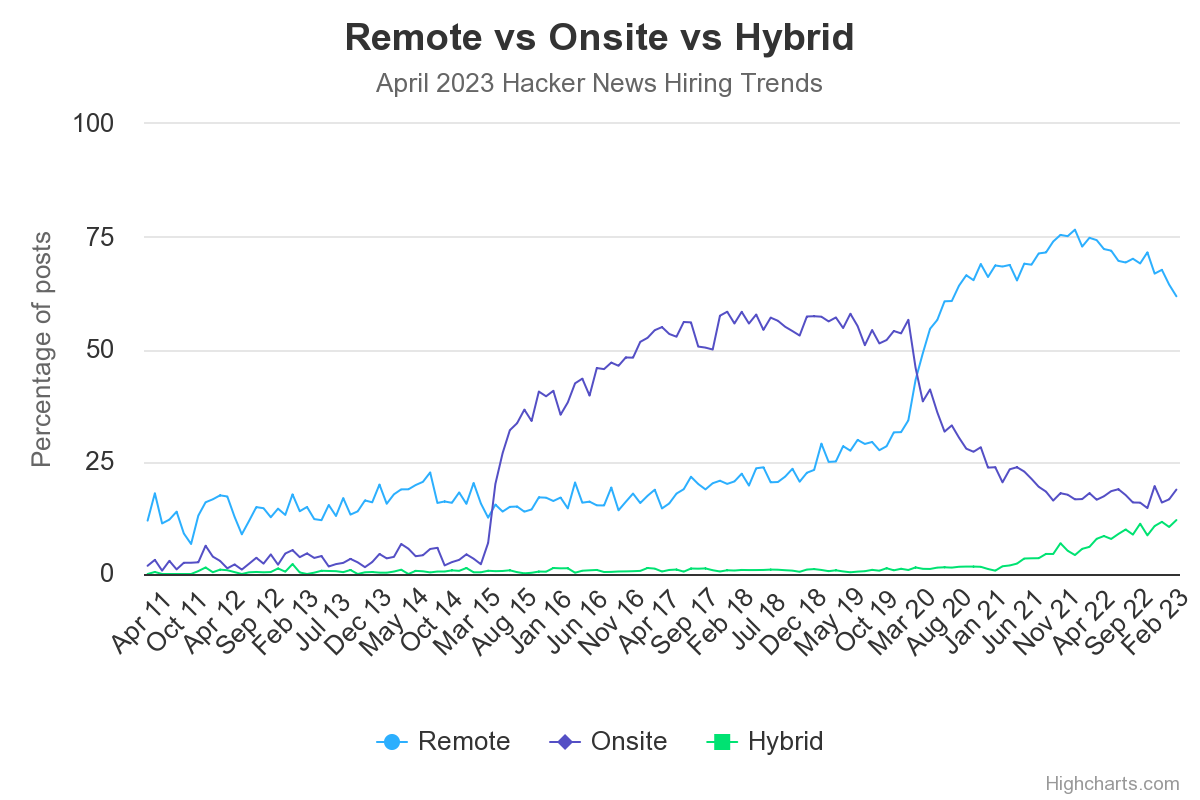
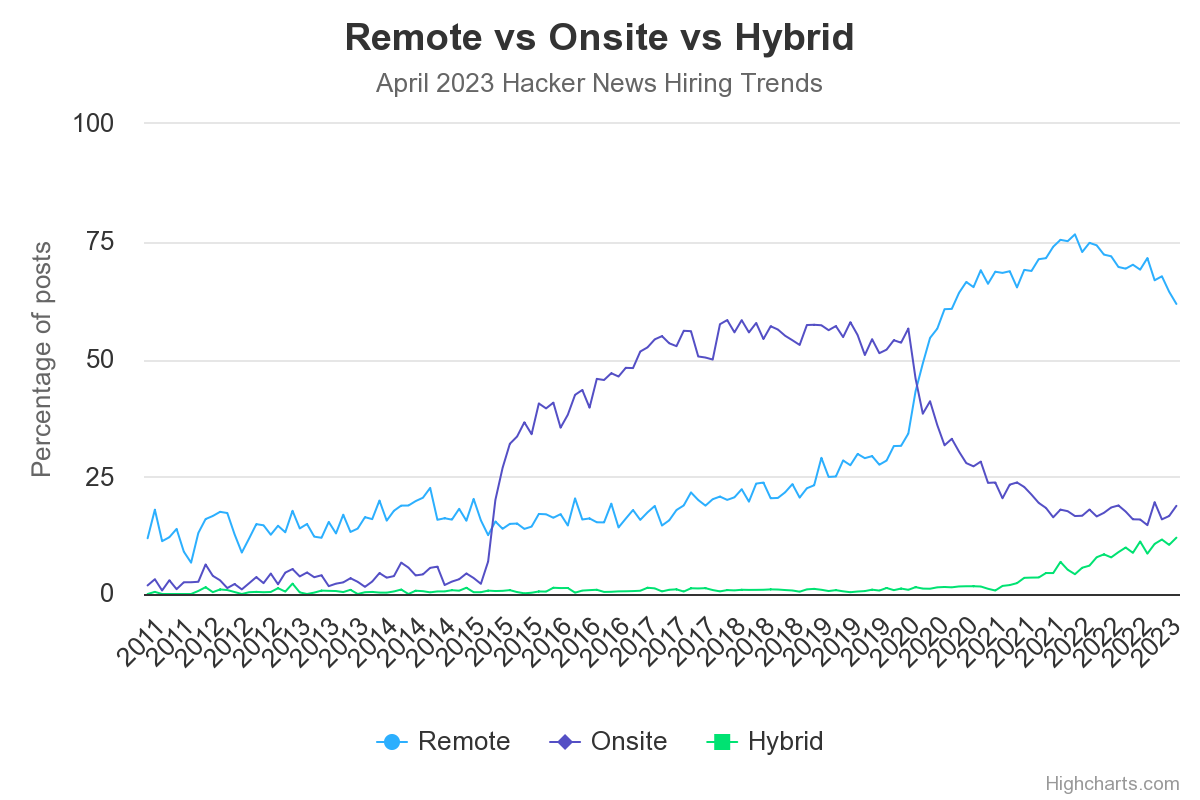
Fix year labels

Changed region(s): [[0.0925, 0.2812, 0.9867, 0.8438], [0.0308, 0.2812, 0.0925, 0.625], [0.0617, 0.7188, 0.0925, 0.75]]

diff --git a/web/js/builder-v18.js b/web/js/builder-v18.js
@@ -93,7 +93,7 @@ const chartBuilder = (function () {
         type: 'line'
       },
       title: {
-        text: ''
+        text: 'Remote vs Onsite vs Hybrid'
       },
       subtitle: {
         text: 'April 2023 Hacker News Hiring Trends'
@@ -106,7 +106,7 @@ const chartBuilder = (function () {
           step: 4,
           rotation: [-45],
           formatter: function() {
-            return Highcharts.dateFormat('%b %y', this.value);
+            return Highcharts.dateFormat('%Y', this.value);
           }
         }
       },
@@ -201,7 +201,10 @@ window.addEventListener('DOMContentLoaded', (event) => {
     title: {
       text: 'Ask HN: Who is hiring? Total Job Postings'
     },
-    yAxis: {
+    subtitle: {
+      text: 'April 2023'
+    },
+  yAxis: {
       title: {
         text: 'Number of Job Postings'
       },
@@ -210,11 +213,14 @@ window.addEventListener('DOMContentLoaded', (event) => {
     xAxis: {
       type: 'datetime',
       categories: categories,
+      dateTimeLabelFormats: {
+        month: '%b %y'
+      },
       labels: {
         rotation: [-45],
-        step: 4,
+        step: 5,
         formatter: function() {
-          return Highcharts.dateFormat('%b %y', this.value);
+          return Highcharts.dateFormat('%Y', this.value);
         }
     },
       accessibility: {
